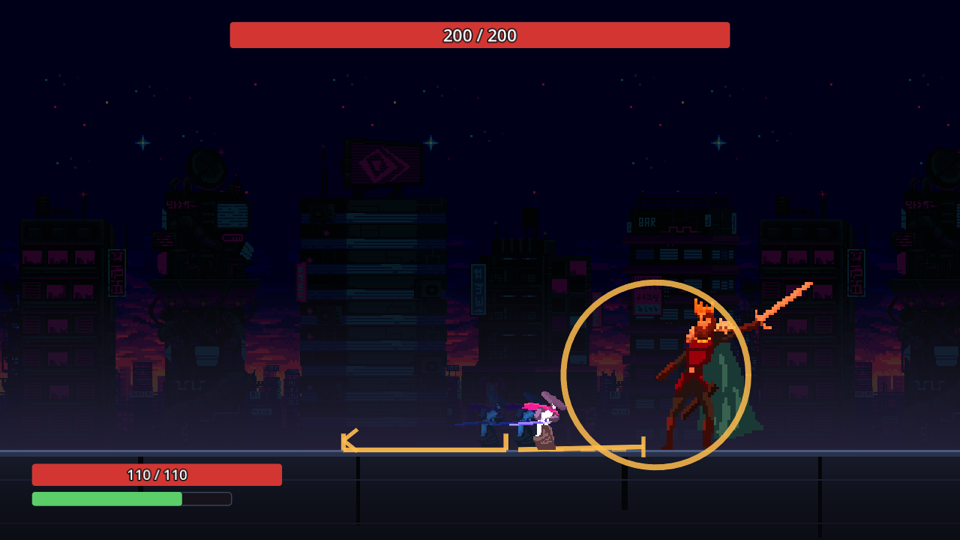
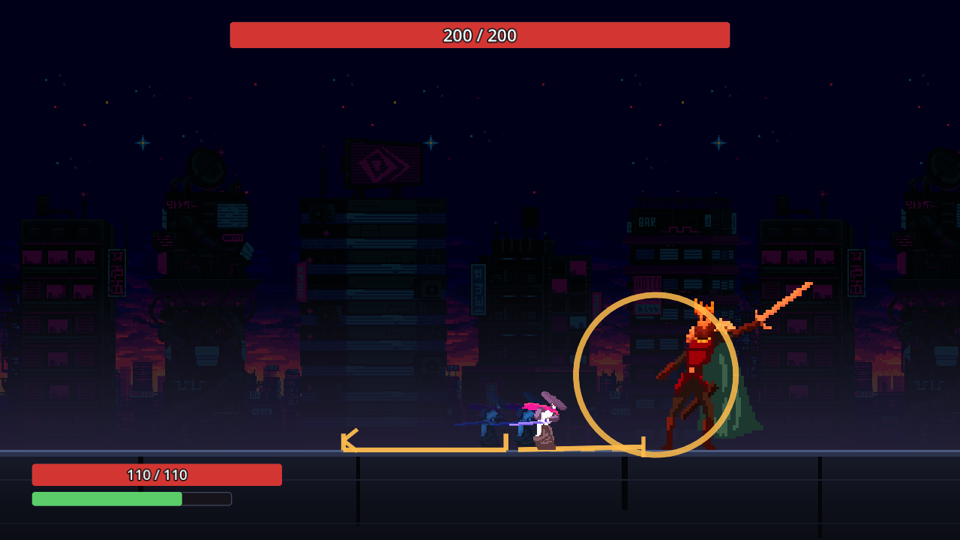
README 의 조작 · 차지 · 방어 문장과 스크린샷을 2연격 · 가드 · 패리에 맞춘다 (#59)
거짓말이 된 문장만 고쳤다 — README 는 4번 PR(연출)이 새 보스와 같이 다시 쓴다. 차지 스크린샷 셋은 지우고 2연격 두 장으로 바꿨다. 패리 장은 이제 칼을 세우는 커밋을 찍는다.

Changed region(s): [[0.5625, 0.5037, 0.7812, 0.8889]]

diff --git a/README.md b/README.md
@@ -28,33 +28,29 @@
 | **II·III-끌기** | **대시.** 마무리를 밖으로 한 대시의 착지점에 세운다. 붙어 있으면 안 맞는다 |
 | **II·III-쇄도** | **간격.** 마무리의 사거리가 도주로를 덮는다. 붙어 싸우면 아무 차이도 없다 |
 | **II-쐐기** | **가드.** 빨간 넷째가 26 으로 무겁다 — 붙든 가드는 거기서 깨지고 다른 변종(14)의 두 배 가까이를 문다 |
-| **III-쐐기** | **가드.** 셋째가 무거워(32) 붙든 가드의 스태미나가 빨간 마무리 **전에** 바닥난다 — 무너진 채로 빨강을 맞는다. 붙들지 않는 사람에게는 2단계와 한 틱도 안 다르다 |
-| **III-역린** | **패리.** 판정 없는 헛스윙이 하나 섞인다 — 거기 지르면 다음 패리 창이 좁아진다 |
+| **III-쐐기** | **가드.** 셋째가 무거워(42) 붙든 가드의 스태미나가 빨간 마무리 **전에** 바닥난다 — 무너진 채로 빨강을 맞는다. 붙들지 않는 사람에게는 2단계와 한 틱도 안 다르다 |
+| **III-역린** | **패리.** 판정 없는 헛스윙이 하나 섞인다 — 거기 지르면 0.33초 커밋에 묶여 마무리를 못 받아친다 |
 | **III-역습** | **욕심.** 2타 뒤의 1.10초는 칼이 들어가는 미끼다. 이 변종만 거기에 판정을 끼운다 — 2타 직후에 지른 칼을 휘두르는 도중에 친다 |
 
 원칙은 하나다 — **저격 대상이 아닌 사람에겐 1단계와 같은 난이도여야 한다.** 봉인이지 벌이 아니다.
 
 몸은 서로 통과한다. 밀어내지 않으니 갇히지 않고, 대신 "거리"는 벽이 아니라 **패턴의 안전 구역**이 만든다.
 
-**조작** — 이동 `←` `→` (또는 `A` `D`) · 점프 `Space` · 대시 `Shift` · 패리 `K` · 공격 `J`(길게 누르면 차지)
+**조작** — 이동 `←` `→` (또는 `A` `D`) · 점프 `Space` · 대시 `Shift` · 가드 `↓` (또는 `S`) · 패리 `K` · 공격 `J`
 
-공격은 **누르고 있으면 모인다.** 0.8초에 두 배 반, 2초에 다섯 배. 모으는 동안에는 걷지도 뛰지도 못하고
-맞으면 모은 것이 전부 날아간다. **붙들고 있는 시간이 곧 선딜이라** 놓으면 칼이 곧장 나가고,
-그래서 최대 차지는 칼이 닿기까지 2.08초다 — 보스의 빈 시간(2.25초)에 그냥 선 채로 들어간다.
+공격은 **2연격**이다. `J` 한 번이 빠른 1타(0.25초)이고, 1타 도중 `J` 를 다시 누르면 1타가 끝나는 틱에 **2타**가
+이어진다 — 칼을 크게 세우는 느린 한 방(1초)이고 1타의 세 배를 준다. 칼질은 끝까지 커밋이라 도는 동안 아무것도
+못 한다. 칼은 그림에 그려진 흰 궤적 그대로 닿는다.
 
-안 들어가는 것은 앞 변종이 `III-역습` 일 때뿐이다(2.00초). 욕심을 벌하는 변종 뒤에 2초를 모으는 것이
-바로 그 욕심이라 일부러 그렇게 뒀고, 눈감고 하는 도박도 아니다 — 갈고리가 그려진 예고를 봤으면
-**놓아서 두 배 반으로 바꾼다.**
-
-**패리와 가드는 한 행동이다.** `K` 를 누르면 그 틱부터 방어 자세이고, 적중이 누름에서 **0.133초**
-안에 서면 패리(피해 0), 그 밖이면 붙들고 있는 한 가드(피해의 1/4 + 스태미나)다 —
-**패리에 실패해도 막는다.** 손을 떼면 그 틱에 풀리고, 떼고 나서 맞으면 그냥 맞는다.
+**가드와 패리는 다른 행동이다.** `↓` 를 누르고 있는 동안이 가드다 — 못 움직이고, 피해의 1/4 만 받고 값은
+스태미나로 낸다(무거운 한 방이 가드를 깬다). `K` 는 패리다 — 누르면 0.33초 동안 칼을 세우고, 그 앞 **0.133초**
+안에 온 판정을 받아친다(피해 0). 창을 놓치면 **그냥 맞는다.**
 
 1·2타를 받아친 상은 **피해 0 뿐**이다. 보스는 안 굳고 화면도 안 멈춘다 — 그래야 3타가 오는 시각이
 무엇을 하든 같고, 그래야 이 계열을 외울 수 있다.
 
 **마무리(3타)만 다른 물건이다.** 예고가 빨갛고 **가드로 못 막는다** — 빨강은 이 게임에서 한 가지
-뜻, 받아쳐라다. 받아치면 보스가 **2.3초** 굳고 최대 차지 한 방(2.0833초)이 그 안에 들어간다.
+뜻, 받아쳐라다. 받아치면 보스가 **2.3초** 굳고, 패리 커밋이 끝나고 2연격이 닿기까지(최대 1.42초)가 그 안에 들어간다.
 "버티다가 → 빨간 것을 받아치고 → 제일 센 걸 꽂는다" 가 한 동작으로 이어지는 것이 이 게임의 고리이고,
 **1단계부터 그렇다.**
 
@@ -85,8 +81,8 @@
 | 타이틀 | 위가 보스 체력, 아래가 내 체력과 스태미나 |
 | <img src="docs/shots/battle-5-attack.png" width="420"> | <img src="docs/shots/battle-5b-boss-hit.png" width="420"> |
 | 공격 | 피격 |
-| <img src="docs/shots/battle-5c-charge.png" width="420"> | <img src="docs/shots/battle-5d-charge-max.png" width="420"> |
-| 모으는 중 — 고리가 몸으로 조여 든다 | 최대 — 고리가 멈추고 몸이 희게 탄다 |
+| <img src="docs/shots/battle-5c-combo-windup.png" width="420"> | <img src="docs/shots/battle-5d-combo-blade.png" width="420"> |
+| 2타 — 반속으로 칼을 크게 세운다 | 2타의 칼 — 1타의 세 배 |
 
 ---
 
